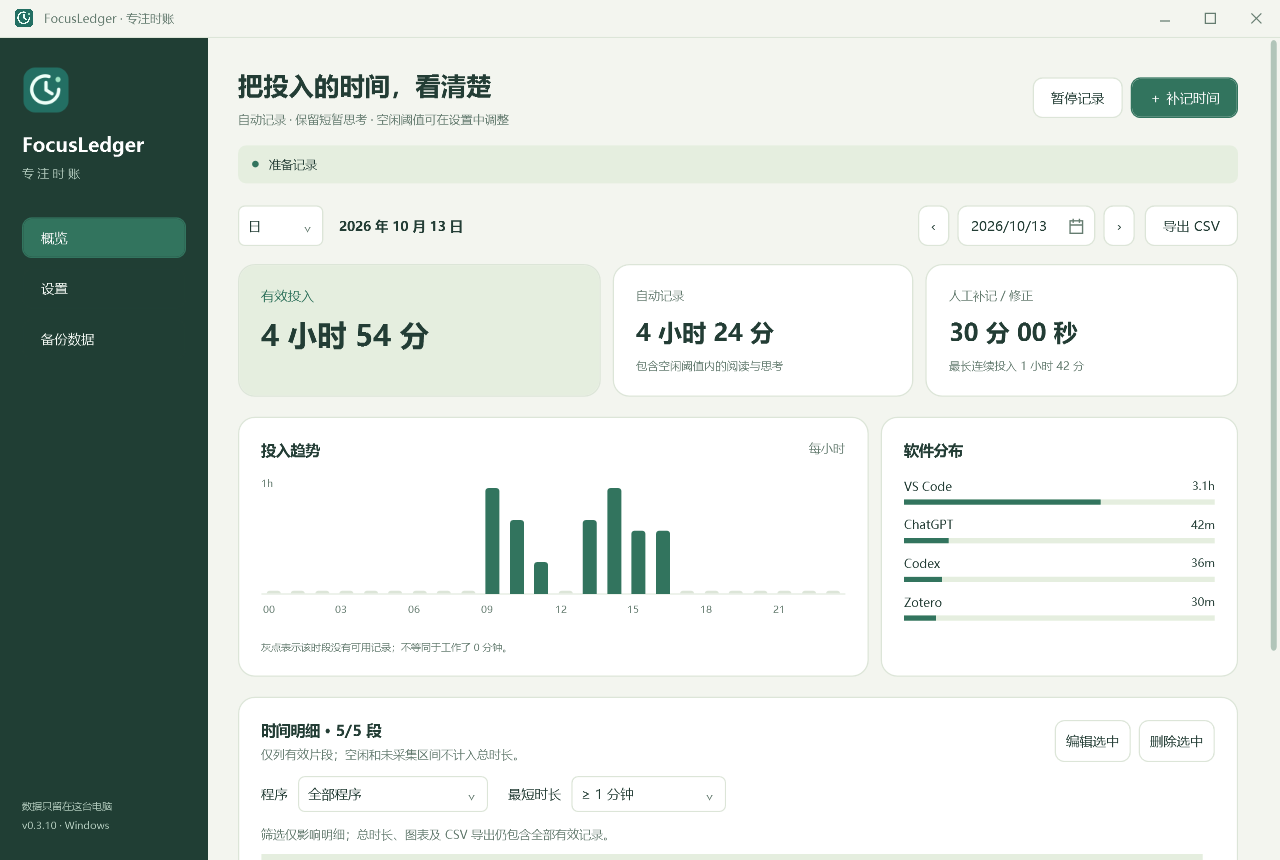
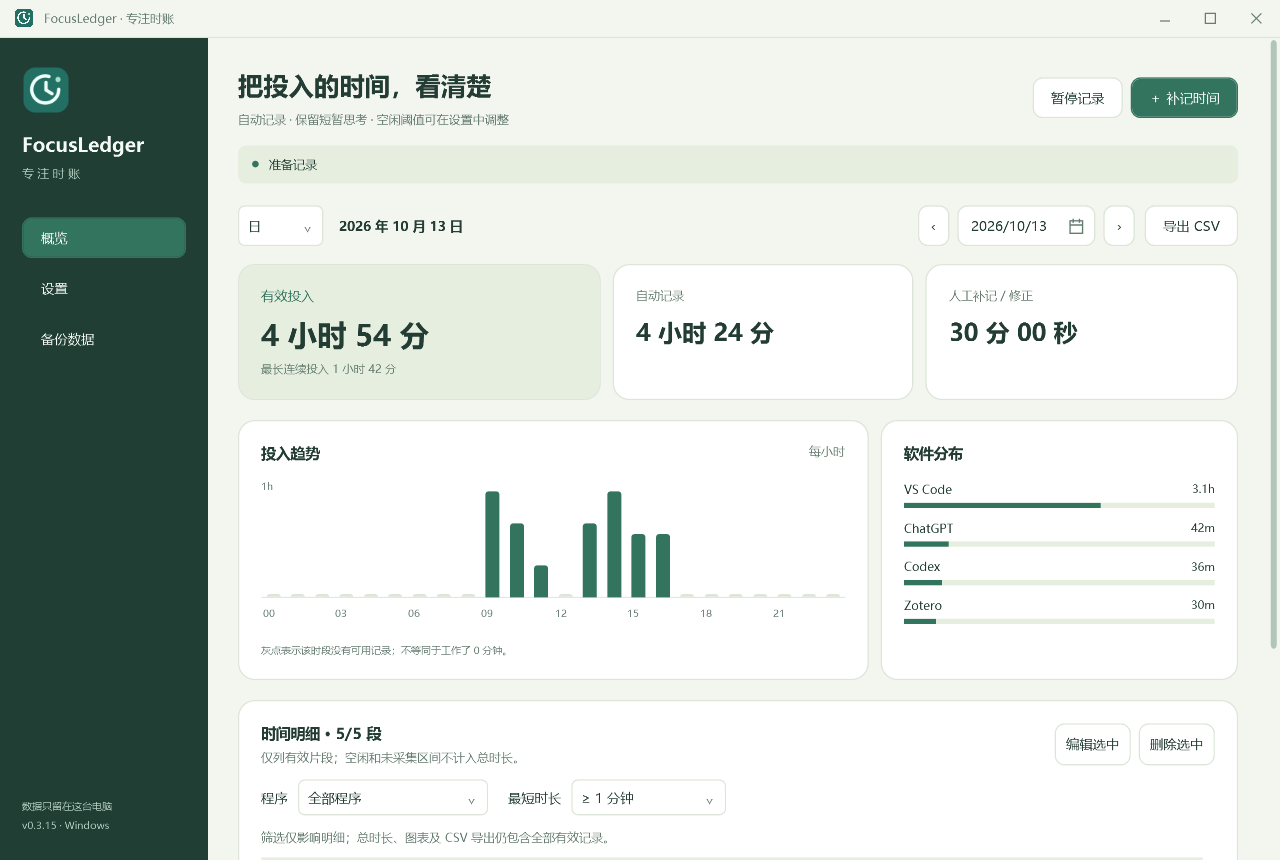
Move longest focus duration into total card in v0.3.15

diff --git a/src/FocusLedger.App/MainWindow.xaml b/src/FocusLedger.App/MainWindow.xaml
@@ -26,7 +26,7 @@
    <DockPanel>
     <StackPanel DockPanel.Dock="Bottom">
      <TextBlock Text="数据只留在这台电脑" Style="{StaticResource SidebarFooter}"/>
-     <TextBlock Text="v0.3.14 · Windows" Style="{StaticResource SidebarFooter}" Margin="0,6,0,0"/>
+     <TextBlock Text="v0.3.15 · Windows" Style="{StaticResource SidebarFooter}" Margin="0,6,0,0"/>
     </StackPanel>
     <StackPanel>
      <Image Source="Assets/focusledger.png" Width="48" Height="48" HorizontalAlignment="Left" Margin="0,0,0,18" RenderOptions.BitmapScalingMode="HighQuality"/>
@@ -54,9 +54,9 @@
     </DockPanel>
     <Grid Margin="0,0,0,20">
      <Grid.ColumnDefinitions><ColumnDefinition Width="1.2*"/><ColumnDefinition/><ColumnDefinition/></Grid.ColumnDefinitions>
-     <Border Style="{StaticResource Card}" Background="{DynamicResource Soft}" BorderBrush="{DynamicResource Line}" Margin="0,0,12,0"><StackPanel><TextBlock Text="有效投入" Foreground="{DynamicResource Accent}"/><TextBlock x:Name="TotalText" Text="0 分 00 秒" FontSize="29" FontWeight="SemiBold" Margin="0,10,0,8"/></StackPanel></Border>
-     <Border Grid.Column="1" Style="{StaticResource Card}" Margin="0,0,12,0"><StackPanel><TextBlock Text="自动记录" Style="{StaticResource Caption}"/><TextBlock x:Name="AutoText" FontSize="24" FontWeight="SemiBold" Margin="0,13,0,11"/><TextBlock Text="包含空闲阈值内的阅读与思考" FontSize="11" Foreground="{DynamicResource Muted}"/></StackPanel></Border>
-     <Border Grid.Column="2" Style="{StaticResource Card}"><StackPanel><TextBlock Text="人工补记 / 修正" Style="{StaticResource Caption}"/><TextBlock x:Name="ManualText" FontSize="24" FontWeight="SemiBold" Margin="0,13,0,11"/><TextBlock x:Name="LongestText" FontSize="11" Foreground="{DynamicResource Muted}"/></StackPanel></Border>
+     <Border Style="{StaticResource Card}" Background="{DynamicResource Soft}" BorderBrush="{DynamicResource Line}" Margin="0,0,12,0"><StackPanel><TextBlock Text="有效投入" Foreground="{DynamicResource Accent}"/><TextBlock x:Name="TotalText" Text="0 分 00 秒" FontSize="29" FontWeight="SemiBold" Margin="0,10,0,8"/><TextBlock x:Name="LongestText" FontSize="11" Foreground="{DynamicResource Muted}"/></StackPanel></Border>
+     <Border Grid.Column="1" Style="{StaticResource Card}" Margin="0,0,12,0"><StackPanel><TextBlock Text="自动记录" Style="{StaticResource Caption}"/><TextBlock x:Name="AutoText" FontSize="24" FontWeight="SemiBold" Margin="0,13,0,11"/></StackPanel></Border>
+     <Border Grid.Column="2" Style="{StaticResource Card}"><StackPanel><TextBlock Text="人工补记 / 修正" Style="{StaticResource Caption}"/><TextBlock x:Name="ManualText" FontSize="24" FontWeight="SemiBold" Margin="0,13,0,11"/></StackPanel></Border>
     </Grid>
     <Grid Margin="0,0,0,20">
      <Grid.ColumnDefinitions><ColumnDefinition Width="1.8*"/><ColumnDefinition/></Grid.ColumnDefinitions>

diff --git a/CHANGELOG.md b/CHANGELOG.md
@@ -1,5 +1,9 @@
 # 更新记录
 
+## 0.3.15
+
+- 将最长连续投入移至有效投入卡片下方，删除自动记录卡片中的说明文字。
+
 ## 0.3.14
 
 - 去掉标题链接的下划线和悬停提示，保留点击打开 GitHub 仓库。
